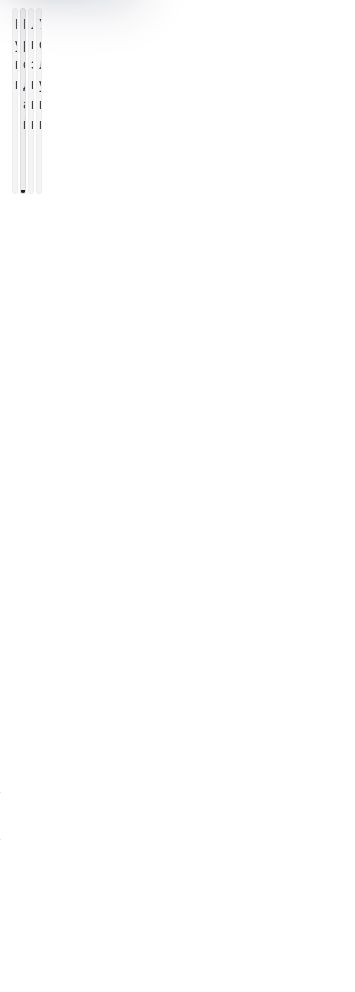
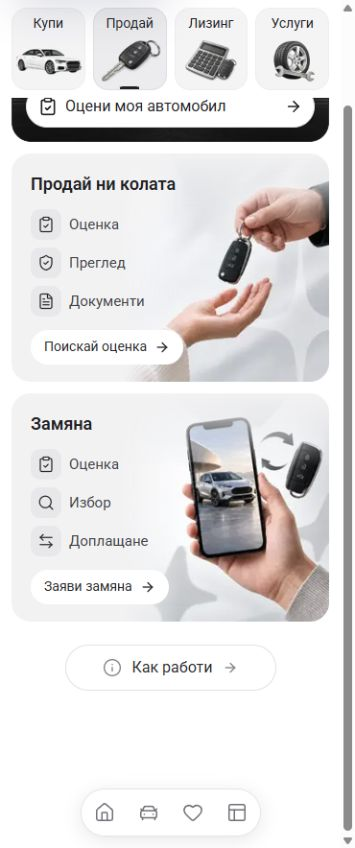
Refresh App Sell guidance viewport evidence

diff --git a/templates/app/docs/sell-guidance-2026-10-04/README.md b/templates/app/docs/sell-guidance-2026-10-04/README.md
@@ -101,7 +101,7 @@ The owner requested a centered, larger How it works entry and proposed moving Be
 | Bulgarian, 320px full page | - | [After](combined-guidance/after-320.jpg) |
 | Bulgarian, 390px full page | - | [After](combined-guidance/after-390.jpg) |
 | Bulgarian, 768px full page | - | [After](combined-guidance/after-768.jpg) |
-| English, 320px full page | - | [After](combined-guidance/after-en-320.jpg) |
+| English, 320 x 884 viewport, scrolled page end | - | [After](combined-guidance/after-en-320.jpg) |
 | English, 1440px full page | - | [After](combined-guidance/after-en-1440.jpg) |
 
 [Rendered measurements and interactions](combined-guidance/verification.json) cover Bulgarian at 320px, 360px, 390px, 768px and 1440px, and English at 320px and 1440px. Each entry measures 220 x 48px, with no offset from the content center, one line of regular 16px text, two selling cards, one guidance entry and no separate preparation panel or horizontal overflow.
@@ -111,3 +111,5 @@ The [desktop drawer](combined-guidance/drawer-1440.jpg) shows all three process 
 The sale and exchange actions open the existing make/model enquiry form with the matching intent selected; no enquiry was submitted. Browser diagnostics contained no errors or warnings. The Bulgarian preview was restored and temporary viewport overrides were reset. Initial automation attempts immediately after navigation or against the unfocused body are recorded in the verification file; the settled drawer interactions and responsive captures completed successfully.
 
 `npm run check` passed with Node 22.20.0: ESLint, TypeScript and the webpack production build generated all 407 pages. The existing isolated `.next-build-check` output was used and development `next-env.d.ts` was preserved. The scoped source delivery includes `components/FeatureContent.tsx`, `components/ReferenceInfoSheet.tsx`, `TEMPLATE.md`, this receipt, `combined-guidance/` and the preceding uncommitted `process-drawer-entry/` evidence. Unrelated shared work is preserved.
+
+The earlier shared Git lock cleared before this revision was committed on Cars `main` as `974ee654a92cd1c18efcaaf09a83c5c3326f181d`. Two full-page capture artifacts were then replaced with visibly verified viewport screenshots for English 320px and the restored Bulgarian preview; no source change was needed.
